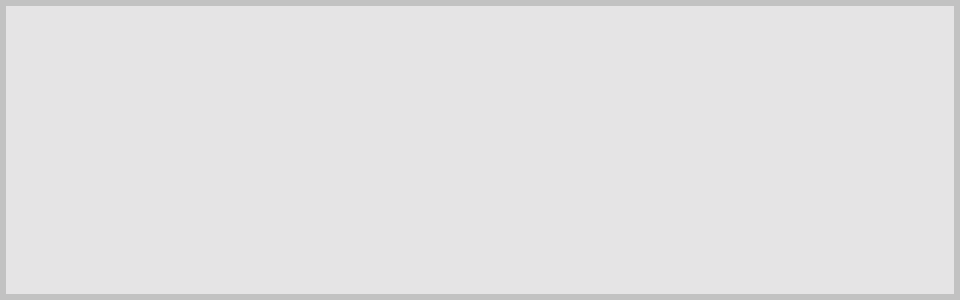
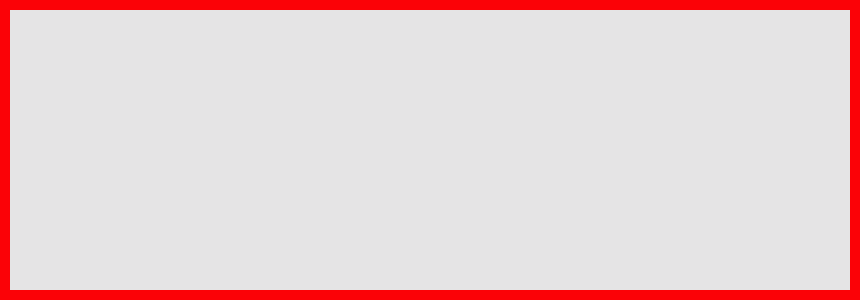
Add files via upload

Changed region(s): [[0.0, 0.0, 1.0, 1.0]]

diff --git a/styles/style.css b/styles/style.css
@@ -8,7 +8,7 @@ html { box-sizing: border-box; }
 *, *::before, *::after { box-sizing: inherit; }
 
 body {
-  width: 960px;
+  width: 860px; /* Padrão: 960-130 */
   margin: 0 auto;
   background-color: white;
   padding: 0px;
